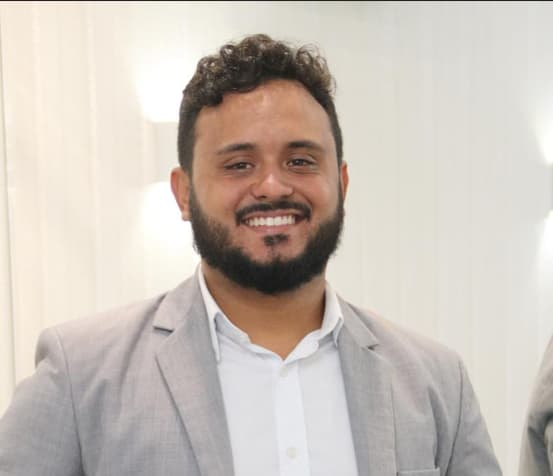
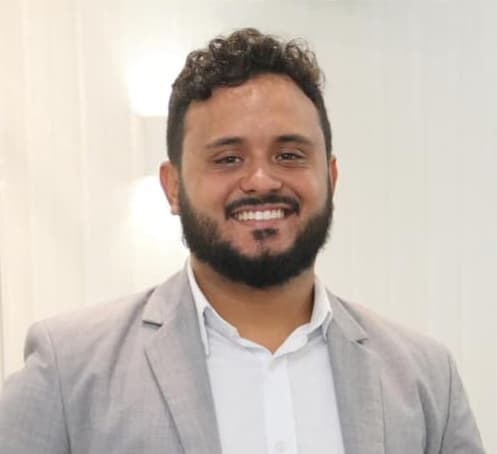
Correções em telas menores de texto e titulos

diff --git a/public/index.html b/public/index.html
@@ -35,7 +35,7 @@
       <div class="container">
         <!-- Logo visível apenas em telas médias ou maiores (md+) -->
         <a href="#" class="d-flex align-items-center text-decoration-none d-none d-md-flex">
-          <img src="assets/img/nav-brand.png" alt="Logo CCUPS" class="img-fluid logo-header me-2" >
+          <img src="assets/img/nav-brand.png" alt="Logo CCUPS" class="img-fluid logo-header me-2">
         </a>
 
         <!-- Logo + texto visíveis apenas em telas pequenas -->
@@ -133,17 +133,17 @@
                   <i class="bi bi-building fs-1 me-3"></i>
                   Nossa Jornada
                 </h3>
-                <p class="lead">O Centro Comunitário Unidos Pelo Social (CCUPS) nasceu em setembro de 2020 como um sonho
+                <p class="lead text-justify">O Centro Comunitário Unidos Pelo Social (CCUPS) nasceu em setembro de 2020 como um sonho
                   coletivo de moradores do bairro Cosme de Farias, em Salvador. Diante das crescentes necessidades da
                   comunidade local, um grupo de voluntários visionários uniu forças para criar um espaço de acolhimento
                   e transformação social.</p>
 
-                <p>Nos primeiros meses, atuamos em uma pequena sala alugada, oferecendo reforço escolar e atividades
+                <p class="text-justify">Nos primeiros meses, atuamos em uma pequena sala alugada, oferecendo reforço escolar e atividades
                   recreativas para 30 crianças. O crescimento foi orgânico - à medida que as famílias conheciam nosso
                   trabalho, mais demandas surgiam. Em 2021, já atendíamos 120 crianças e adolescentes com oficinas de
                   capoeira, dança e apoio psicossocial.</p>
 
-                <p>Hoje, consolidados como referência comunitária, mantemos nossa essência de organização sem fins
+                <p class="text-justify">Hoje, consolidados como referência comunitária, mantemos nossa essência de organização sem fins
                   lucrativos, administrada de forma autônoma e transparente. Nossa sede é alugada.
                   Através de parcerias, permite oferecer 12 oficinas regulares que atendem mais de 400 jovens em
                   situação de vulnerabilidade.</p>
@@ -173,7 +173,7 @@
               <div class="card-body p-4 text-center">
                 <i class="bi bi-bullseye fs-1 text-success mb-3"></i>
                 <h3 class="fw-bold mb-3 ccups-c4">Missão</h3>
-                <p>Promover desenvolvimento humano integral através de educação, cultura e esporte, fortalecendo
+                <p class="text-justify">Promover desenvolvimento humano integral através de educação, cultura e esporte, fortalecendo
                   vínculos familiares e comunitários em Salvador.</p>
               </div>
             </div>
@@ -184,7 +184,7 @@
               <div class="card-body p-4 text-center">
                 <i class="bi bi-eye fs-1 text-primary mb-3"></i>
                 <h3 class="fw-bold mb-3 text-primary">Visão</h3>
-                <p>Nosso futuro é ser um farol de transformação social, expandindo o acolhimento e a educação para todas
+                <p class="text-justify">Nosso futuro é ser um farol de transformação social, expandindo o acolhimento e a educação para todas
                   as idades, com o objetivo de nos tornarmos referência para outras organizações, impulsionando a
                   dignidade e o desenvolvimento pleno de cada vez mais pessoas.</p>
               </div>
@@ -242,7 +242,7 @@
                 </div>
 
                 <div class="mt-3 p-3 bg-light rounded">
-                  <p class="mb-0"><i class="bi bi-quote fs-3 text-success"></i> Despertamos potenciais e tecemos redes
+                  <p class="mb-0"><i class="bi bi-quote fs-3 text-success text-justify"></i> Despertamos potenciais e tecemos redes
                     de apoio, onde a educação e o acolhimento transformam cada indivíduo.</p>
                 </div>
               </div>
@@ -263,7 +263,7 @@
           <div class="col-lg-8 text-center">
             <h2 class="display-5 fw-bold text-success mb-3">Nossos Cursos e Oficinas</h2>
 
-            <p class="mt-3 text-success sub-text">Oferecemos diversas atividades educativas, culturais e esportivas para
+            <p class="mt-3 text-success sub-text tex">Oferecemos diversas atividades educativas, culturais e esportivas para
               crianças e
               adolescentes de 4 a 17 anos.</p>
           </div>
@@ -328,7 +328,7 @@
               <img src="assets/img/curo-informatica.jpg" class="card-img-top" alt="Informática">
               <div class="card-body">
                 <h3 class="card-title fw-bold">Informática</h3>
-                <p class="card-text">Educação digital</p>
+                <p class="card-text">Educação e Letramento Digital</p>
                 <button class="btn btn-success mt-auto" data-bs-toggle="modal" data-bs-target="#modalInformatica">Saiba
                   Mais</button>
               </div>
@@ -363,7 +363,7 @@
                 </div>
                 <div class="modal-body">
                   <h5 class="fw-bold text-success">Mestres: Xareu e D´Alabamba</h5>
-                  <p class="pt-3">A prática da capoeira oferece um leque de benefícios que acompanham o crescimento dos
+                  <p class="pt-3 text-justify">A prática da capoeira oferece um leque de benefícios que acompanham o crescimento dos
                     nossos jovens
                     em diversos aspectos. É uma guardiã da memória de nossos antepassados, conectando as crianças com a
                     rica <span class="text-success fw-bold">cultura afro-brasileira, suas histórias</span>, ritmos e
@@ -371,7 +371,7 @@
                     É uma forma viva de aprender sobre
                     a luta pela liberdade e a construção da identidade do nosso povo, valorizando a ancestralidade que
                     nos define.</p>
-                  <p>Os <span class="text-success fw-bold">movimentos fluidos e complexos da capoeira</span> — como a
+                  <p class="text-justify">Os <span class="text-success fw-bold">movimentos fluidos e complexos da capoeira</span> — como a
                     ginga, os
                     chutes, as esquivas e
                     os floreios — exigem e desenvolvem uma notável coordenação motora, equilíbrio, agilidade, força e
@@ -392,7 +392,7 @@
                 </div>
                 <div class="modal-body">
                   <h5 class="fw-bold text-success">Professora: Carol Marins</h5>
-                  <p class="pt-3">O programa de ballet do Centro Comunitário Unidos Pelo Social transforma a vida das
+                  <p class="pt-3 text-justify">O programa de ballet do Centro Comunitário Unidos Pelo Social transforma a vida das
                     meninas de
                     Cosme de Farias e bairros vizinhos. Além da dança, desenvolve aspectos físicos, mentais e sociais. A
                     prática aprimora
@@ -417,7 +417,7 @@
                   <button type="button" class="btn-close btn-close-white" data-bs-dismiss="modal"></button>
                 </div>
                 <div class="modal-body">
-                  <p class="pt-3">O programa de Boxe educativo na ONG CCUPS – Centro Comunitário Unidos Pelo Social
+                  <p class="pt-3 text-justify">O programa de Boxe educativo na ONG CCUPS – Centro Comunitário Unidos Pelo Social
                     oferece muito
                     mais que uma prática esportiva; é uma ferramenta poderosa para o desenvolvimento físico e emocional
                     de crianças e adultos em Cosme de Farias, impactando positivamente a saúde e a dinâmica comunitária.
@@ -445,7 +445,7 @@
                 </div>
                 <div class="modal-body">
                   <h5 class="fw-bold text-success">Professora: Magnólia Monteiro</h5>
-                  <p class="pt-3">Na CCUPS, o programa de exercícios físicos para mulheres tem causado uma grande
+                  <p class="pt-3 text-justify">Na CCUPS, o programa de exercícios físicos para mulheres tem causado uma grande
                     diferença no bem-estar e na vida da população de Cosme de Farias. As alunas dizem que sentem muito
                     mais <span class="text-success fw-bold">disposição</span>, menos sofrimento por causa de dores
                     constantes e uma melhora importante na
@@ -472,13 +472,13 @@
                 <div class="modal-body">
                   <h6 class="ccups-c4">Nossos dois professores são: Indson Conceição e Itama Junior
                   </h6>
-                  <p class="pt-3">
+                  <p class="pt-3 text-justify">
                     Nossas aulas vão além do básico, <span class="ccups-c4">estimulando a criatividade, o pensamento
                       lógico</span> e a resolução de
                     problemas. Os alunos aprendem a pesquisar com segurança, a colaborar em projetos e a desenvolver uma
                     cidadania digital responsável, habilidades essenciais para o futuro acadêmico e profissional.
                   </p>
-                  <p class="pt-3 "> Utilizamos Chromebooks como ferramenta principal. Sua simplicidade, segurança,
+                  <p class="pt-3 text-justify"> Utilizamos Chromebooks como ferramenta principal. Sua simplicidade, segurança,
                     acessibilidade e
                     integração com as ferramentas Google (Docs, Sheets, Slides, Classroom) proporcionam um ambiente de
                     aprendizado dinâmico e eficaz, facilitando a autonomia e a colaboração.</p>
@@ -498,7 +498,7 @@
                 </div>
                 <div class="modal-body">
                   <h6 class="ccups-c4">Percussão para Crianças</h6>
-                  <p class="pt-3">Ritmos Baianos, Músicas e Instrumentos para o Desenvolvimento.<br>
+                  <p class="pt-3 text-justify">Ritmos Baianos, Músicas e Instrumentos para o Desenvolvimento.<br>
                     A percussão é uma ferramenta lúdica e poderosa para o desenvolvimento infantil, indo muito além da
                     simples produção de sons. Em Salvador, Bahia, a riqueza dos ritmos locais oferece um universo ainda
                     mais vibrante para as crianças explorarem. Aprender percussão desde cedo traz inúmeros benefícios,
@@ -773,7 +773,7 @@
               <button class="btn btn-outline-success" data-bs-toggle="modal" data-bs-target="#modal2">Saiba
                 mais</button>
             </div>
-            <!-- Membro 14 -->
+            <!-- Membro 14 Itamar Junior -->
             <div class="team-card text-center">
               <img src="assets/img/itamar-junior.jpg" alt="Itamar Junior" class="member-photo">
               <h5 class="mt-3">Itamar Matos de Sales </h5>
@@ -1053,7 +1053,7 @@
               simplesmente ensinar a usar um computador. Para mim, é sobre abrir portas para um novo mundo. Eu vejo como
               a tecnologia pode conectar nossos jovens a um futuro cheio de possibilidades.</p>
             <div class="d-flex justify-content-center gap-3 mt-3">
-           <!---   <a href="" class="social-icon instagram" target="_blank"><i class="bi bi-instagram"></i></a></a> -->
+              <!---   <a href="" class="social-icon instagram" target="_blank"><i class="bi bi-instagram"></i></a></a> -->
               <!--- <a href="#" class="social-icon facebook"><i class="bi bi-facebook"></i></a> -->
             </div>
           </div>
@@ -1399,7 +1399,7 @@
 
             <!-- Dados Bancários -->
             <div class="bank-info text-start mx-auto mb-3">
-              <h6 class="text-success fw-bold mb-2">Dados Bancários (Transferência / TED / DOC)</h6>
+              <h6 class="text-success fw-bold mb-2">Dados Bancários (Transferência-TED)</h6>
               <ul class="list-unstyled small mb-0">
                 <li><strong>Instituição:</strong> Caixa Econômica Federal</li>
                 <li><strong>Agência:</strong> 3790 </li>
@@ -1594,7 +1594,13 @@
             <li class="mb-2"><a href="https://linktr.ee/gerandofalcoes"
                 class="text-white text-decoration-none hover-primary" target="_blank">Gerando Falcões</a></li>
             <li class="mb-2"><a href="https://www.instagram.com/nomadshostel_salvador?igsh=MWdleWdheGZqMTZ5Mw=="
-                class="text-white text-decoration-none hover-primary" target="_blank">Nomads Hostel Salvado</a></li>
+                class="text-white text-decoration-none hover-primary" target="_blank">Nomads Hostel Salvador</a></li>
+            <li class="mb-2"><a href="https://www.instagram.com/nomadshostel_salvador?igsh=MWdleWdheGZqMTZ5Mw=="
+                class="text-white text-decoration-none hover-primary" target="_blank">Viacole</a></li>
+            <li class="mb-2"><a href="https://www.instagram.com/nomadshostel_salvador?igsh=MWdleWdheGZqMTZ5Mw=="
+                class="text-white text-decoration-none hover-primary" target="_blank">Central Geral do
+                Dízimo-Pró-Vida</a></li>
+
           </ul>
           <!-- <div class="mt-3">
             <a href="#" class="btn btn-outline-light btn-sm">Seja um Parceiro</a>
@@ -1708,7 +1714,7 @@
 
                 <!-- Rodapé do modal -->
                 <div class="modal-footer justify-content-between">
-                  <button type="button" class="btn btn-danger" data-bs-dismiss="modal">Fechar</button>
+                  <button type="button" class="btn btn-secondary" data-bs-dismiss="modal">Fechar</button>
                 </div>
               </div>
             </div>
@@ -1802,7 +1808,7 @@
 
                 <!-- Rodapé -->
                 <div class="modal-footer justify-content-between">
-                  <button type="button" class="btn btn-danger" data-bs-dismiss="modal">Fechar</button>
+                  <button type="button" class="btn btn-secondary" data-bs-dismiss="modal">Fechar</button>
 
                 </div>
               </div>

diff --git a/public/assets/css/style.css b/public/assets/css/style.css
@@ -149,8 +149,18 @@ body {
   /* previne vazamento */
 }
 
-body.modal-open {
-  padding-right: 0 !important;
+body.modal-open .modal-backdrop.show {
+  opacity: 0.15;
+  /* valor suave – ajuste se quiser mais ou menos escuro */
+  background-color: rgba(0, 0, 0, 0.15);
+}
+
+/* Reduz a opacidade do fundo escuro do MENU (offcanvas) */
+.offcanvas-backdrop.show {
+  opacity: 0.1;
+  /* quase transparente */
+  background-color: rgba(0, 0, 0, 0.05);
+  /* toque bem leve */
 }
 
 /* --- Para Firefox (mais limitado) --- */
@@ -241,6 +251,9 @@ main {
   box-shadow: 0 6px 12px rgba(0, 0, 0, 0.15);
 }
 
+.modal-backdrop.show {
+  opacity: 0.1;
+}
 
 /*Configuração do Botão de fechar menu responsivo*/
 .nav-toggler {
@@ -390,7 +403,7 @@ header {
   height: clamp(400px, 40vw, 1000px);
   background: url('../img/fundo.png') no-repeat center;
   background-size: contain;
-  opacity: 0.15;
+  opacity: 0.30;
   z-index: 0;
 }
 
@@ -709,10 +722,15 @@ header {
 
 .member-photo {
   width: 100%;
+  max-width: 240px;
+  /* limite ideal para telas pequenas */
   height: 220px;
   object-fit: cover;
   border-radius: 12px;
+  margin: 0 auto;
+  display: block;
 }
+
 
 .carousel-btn {
   position: absolute;
@@ -798,7 +816,7 @@ header {
 }
 
 .modal-donate .pix-qr-wrapper {
-  max-width: 260px;
+  max-width: 220px;
   margin: 0 auto;
 }
 
@@ -1207,5 +1225,12 @@ footer .border-top {
 @media (max-width: 767.98px) {
   .logo-header {
     display: none;
+  }
+  .text-justify-sm {
+    text-align: justify !important;
+  }
+ 
+  #services p{
+    text-align: justify !important;
   }
 }
